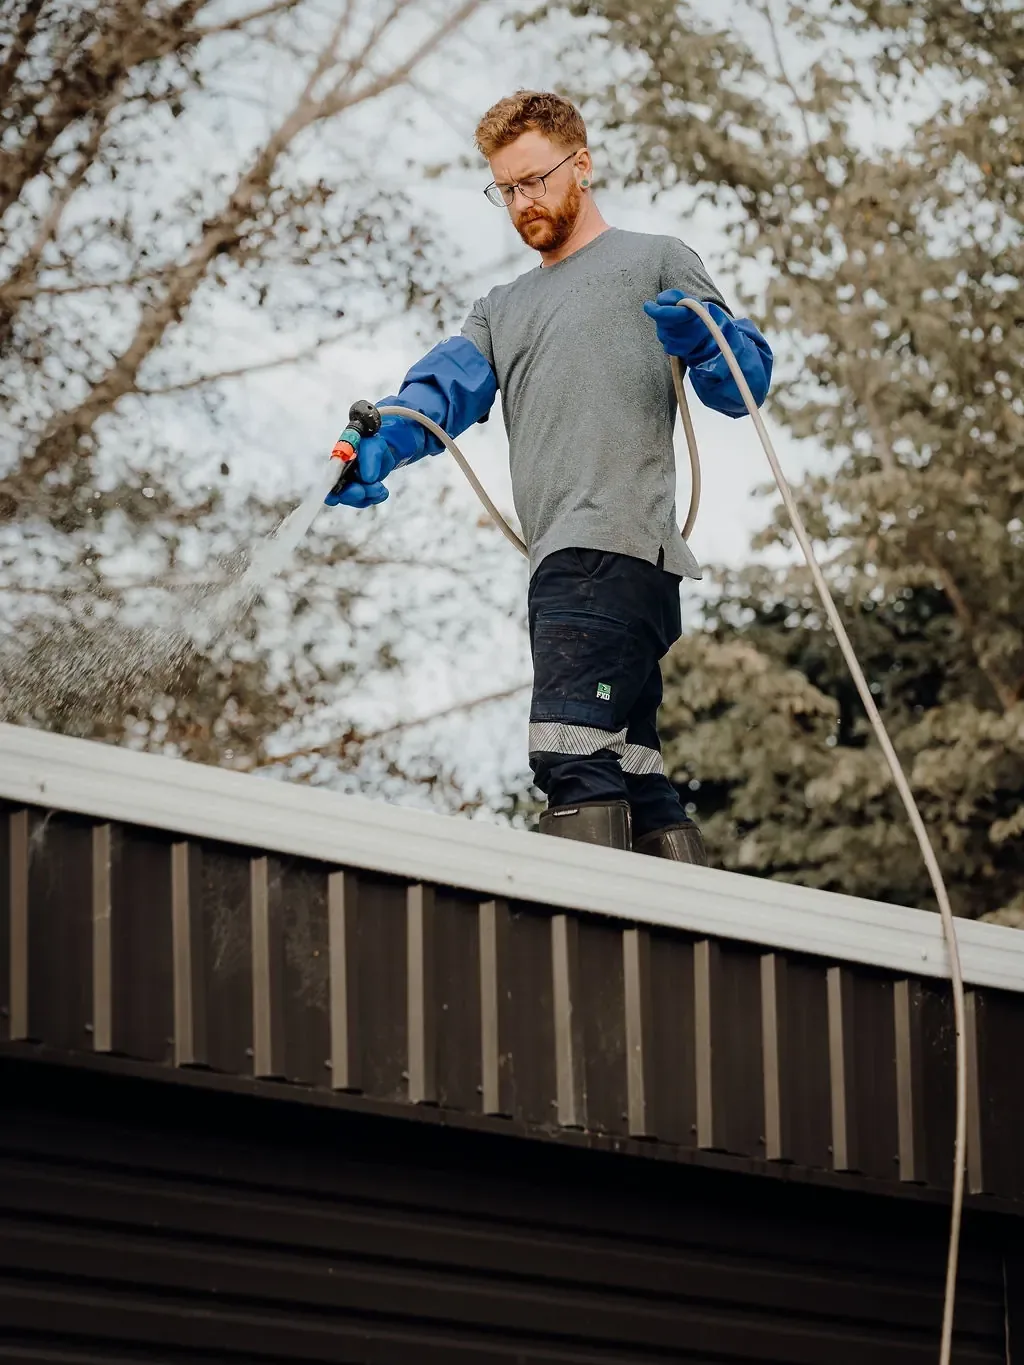
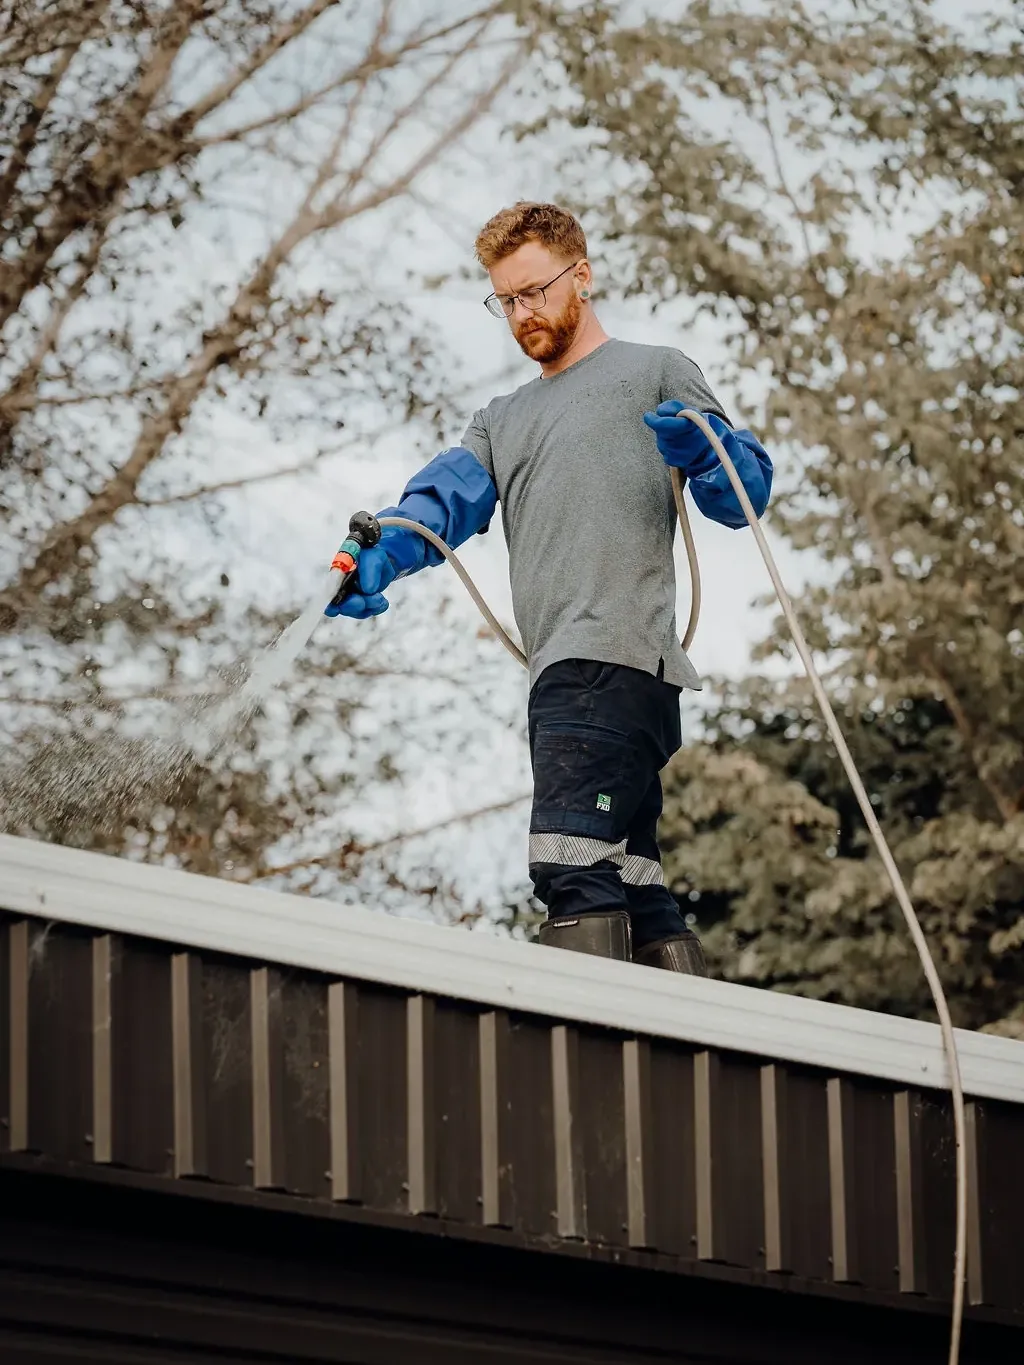
changes

diff --git a/src/pages/AboutUs.jsx b/src/pages/AboutUs.jsx
@@ -8,7 +8,7 @@ import TestimonialSlider from '../components/TestimonialSlider';
 import testimonials from '../data/testimonialsData';
 import WhatWeClean from '../components/WhatWeClean';
 
-import heroAbout from '../images/about-duke-property-services-team.webp';
+import heroAbout from '../images/about-gleam-team-hero.webp';
 import hoganImg from '../images/Tony-Wanakas-best-window-washer.webp';
 import koaImg from '../images/Brenda-Wanakas-Second-best-window-cleaner.webp';
 import MattImg from '../images/matt.webp';
@@ -100,7 +100,7 @@ export default function AboutUs() {
             Tony Lynch has been a professional window cleaner since 1980, starting out with a commercial window cleaning business in Wellington. At the turn of the millennium, Tony and his whānau moved to Wanaka, where they ran Missy's Kitchen restaurant for eight years. In 2018, Tony picked up the squeegee again and started Gleam Team Window Cleaning.
           </p>
           <p className="text-lg font-body">
-            Since then, the team has grown — but the commitment to community and detail hasn't changed. We service all areas in Wanaka, Hawea and Luggate.
+            Since then, the team has grown — but the commitment to community and detail hasn't changed. We service all areas in Wanaka, Haweaa, Luggate & Cromwell.
           </p>
         </motion.section>
 

diff --git a/src/pages/Contact.jsx b/src/pages/Contact.jsx
@@ -97,8 +97,8 @@ export default function Contact() {
         alt="Gleam Team Window Cleaning service area coverage map"
         className="w-full h-auto rounded-xl shadow-md"
       />
-      {/* TODO: mapImage above is still Duke's Kapiti Coast map graphic — swap for a Wanaka/Upper Clutha map when photos are updated.
-          TODO: the interactive map link below was Duke's custom Google My Maps — create a new one for Gleam Team's service area, or link to Google Maps directly. */}
+      {/* TODO: swap the link below for Gleam Team's new Google My Maps share link
+          (Share -> "Anyone with link") so visitors see the same interactive map. */}
       <a
         href="https://www.google.com/maps/search/?api=1&query=Wanaka+Hawea+Luggate+Tarras+New+Zealand"
         target="_blank"